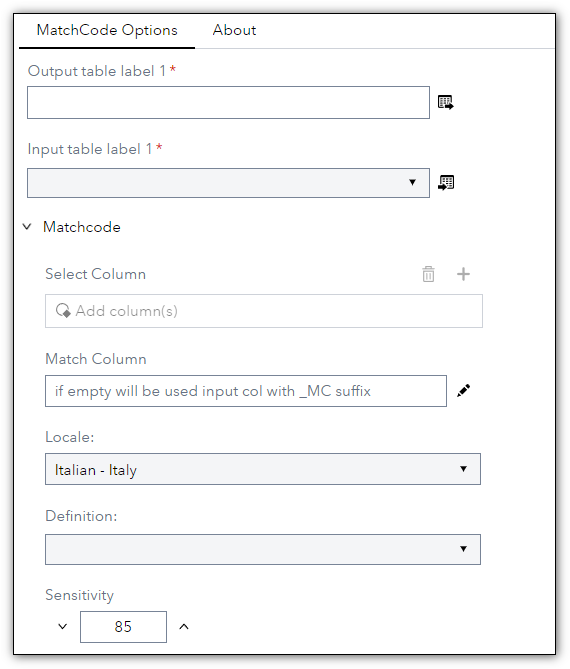
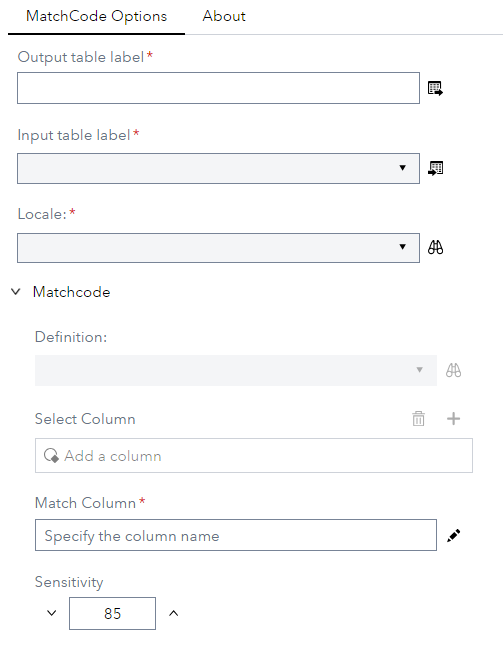
New match columns made mandatory

diff --git a/DQ - Match Code/README.md b/DQ - Match Code/README.md
@@ -2,7 +2,9 @@
 
 ## Description
 
-The **DQ - Match Code** step allows you to create a column match code based on locale and rule definition using a **dqMatch** function in the SAS Compute Server. This version supports 7 Locales (ENCAN, ENUSA, FRCAN, FRFRA, DEDEU, ITITA and ESESP) and allows to generate match code for up to 5 columns.  
+The **DQ - Match Code** step allows you to create a column match code based on locale and rule definition using a **dqMatch** function in the SAS Compute Server. 
+ * This version uses SASDQREF tables, supports all Locales defined in the QKB and allows to generate match code for up to 10 columns. 
+ * Prompts take advantage of dynamic prompt lists (SASDQREF) and hierarchies 
 
 ## User Interface  
 
@@ -25,7 +27,7 @@ and it is highly recommended to use that step going forward when possible.
 
 ## Requirements
 
-2021.1.1 or later  
+2023.06 or later  
 
 * This custom step requires a SAS Quality Knowledge Base (QKB) to be installed and configured. More details can be found in the documentation that is available [here](https://support.sas.com/en/software/quality-knowledge-base-support.html)  
 
@@ -34,6 +36,14 @@ and it is highly recommended to use that step going forward when possible.
 ![Using the DQ - Match Code Custom Step](img/dqmatch.gif)  
 
 ## Change Log
+  
+Version 2.1 (19MAR2024)  
+
+  * New match columns made mandatory
+
+Version 2.0 (25JUL2023)  
+ * use of the SASDQREF library to extend support to all locales defined in the QKB.
+ * use of hierarchical prompts and dynamic lists.
 
 Version 1.2 (22NOV2022)  
 
